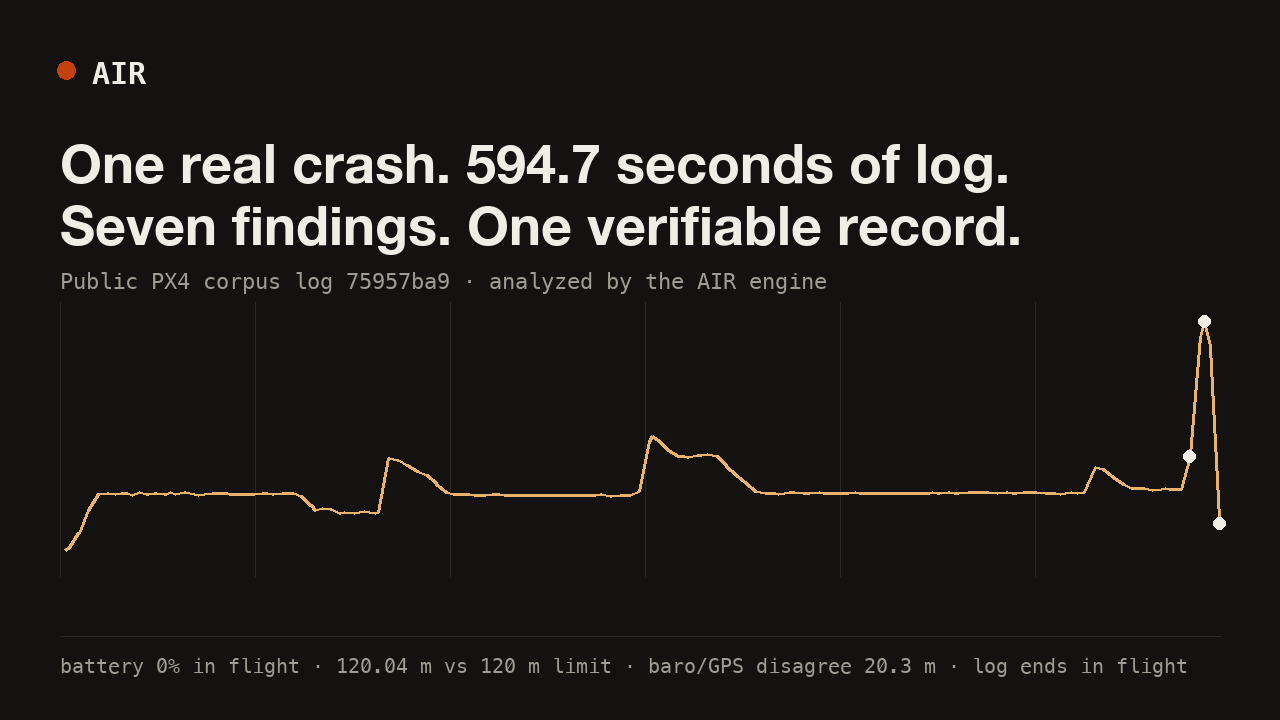
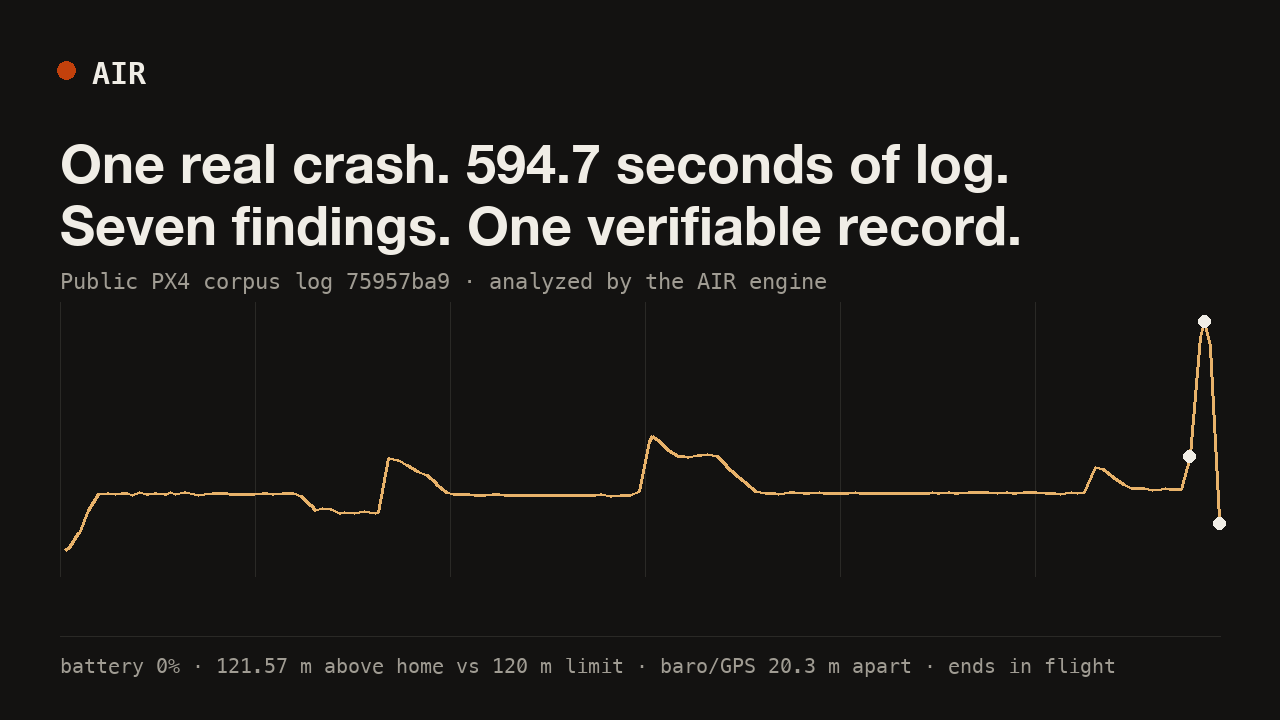
Update demo scripts, captions and site charts to current output
The demo script, video captions, chart annotations and poster quoted
120.04 m (EKF-origin height), a 59% flight-start sag and 12.6 m at log
end. They now quote what the engine reports: 121.57 m above home against
the 120 m rule with its 1 m tolerance, a 51% collapse within 10 s, and
14.2 m above home. Chart descriptions no longer call the three altitude
traces independent (they use different references). The demo's
limitations section is aligned with the verifier trust anchor and the
certification wording.

Changed region(s): [[0.1562, 0.9167, 0.9375, 0.9472]]

diff --git a/site/tools/render_charts.py b/site/tools/render_charts.py
@@ -65,10 +65,12 @@ def main() -> int:
         f'<svg viewBox="0 0 {W} {H}" role="img" aria-labelledby="altchart-t altchart-d" '
         f'class="chart chart-alt" preserveAspectRatio="xMidYMid meet">')
     p.append('<title id="altchart-t">Altitude by source over the 594-second flight</title>')
-    p.append('<desc id="altchart-d">Three independent altitude traces — barometer, GPS, and '
-             'EKF-fused — plotted against flight time. Near the end of the flight the barometer '
-             'and GPS traces diverge by 20.3 meters, a procedure altitude limit is exceeded at '
-             '120.04 meters, and all traces stop while the aircraft is still airborne.</desc>')
+    p.append('<desc id="altchart-d">Three altitude traces with different references — '
+             'barometer, GPS (above sea level), and EKF (above its local origin) — plotted '
+             'against flight time. Near the end of the flight the barometer and GPS traces '
+             'diverge by 20.3 meters, the procedure height limit is exceeded at 121.57 meters '
+             'above the launch point, and all traces stop while the aircraft is still '
+             'airborne.</desc>')
     p.append(f'<rect x="0" y="0" width="{W}" height="{H}" fill="{PANEL}"/>')
 
     # grid + axes
@@ -98,11 +100,11 @@ def main() -> int:
                  f'fill="none" stroke="{color}" stroke-width="1.8" stroke-linejoin="round"/>')
         # legend chips drawn separately in HTML; keep SVG clean
 
-    # ALT-1 peak marker on EKF (T+586.9, 120.04)
+    # ALT-1 peak marker on the EKF trace (T+586.9; EKF-origin 120.04 m = 121.57 m above home)
     mx, my = sx(586.94), sy(120.04)
     p.append(f'<circle cx="{mx:.1f}" cy="{my:.1f}" r="4.5" fill="{CRIT}"/>')
     p.append(f'<line x1="{mx:.1f}" y1="{my-8:.1f}" x2="{mx:.1f}" y2="{my-34:.1f}" stroke="{CRIT}" stroke-width="1"/>')
-    p.append(f'<text x="{mx-6:.1f}" y="{my-40:.1f}" text-anchor="end" class="anno anno-crit">120.04 m — ALT-1 limit is 120 m · FAIL</text>')
+    p.append(f'<text x="{mx-6:.1f}" y="{my-40:.1f}" text-anchor="end" class="anno anno-crit">121.57 m above home — ALT-1 limit is 120 m · FAIL</text>')
 
     # conflict annotation: double arrow between baro & GPS at T+580.5 (204.73 vs 164.01)
     ax = sx(580.48)
@@ -215,7 +217,7 @@ def main() -> int:
              f'stroke-width="1.6" stroke-linejoin="round"/>')
     for t, v, cls, label, anchor in (
             (579.24, None, "hm-bat", "battery 0%", "end"),
-            (586.94, 120.04, "hm-alt", "120.04 m", "end"),
+            (586.94, 120.04, "hm-alt", "121.6 m above home", "end"),
             (594.64, 12.64, "hm-end", "log ends in flight", "end")):
         yv = hy(v) if v is not None else hy(dict((round(pt[0], 2), pt[1]) for pt in ekf).get(579.24, 100))
         # nearest EKF value for battery marker

diff --git a/site/tools/gen_images.py b/site/tools/gen_images.py
@@ -61,7 +61,7 @@ def base_canvas(W, H, d):
     vmin = min(v for _, v in pts) - 6
     vmax = max(v for _, v in pts) + 10
     draw_trace(dr, pts, 60, H * 0.42, W - 120, H * 0.36, dur, vmin, vmax)
-    # markers: battery 0% (579.24), alt peak (586.94, 120.04), end (594.64, 12.64)
+    # markers on the EKF-origin trace: battery 0% (579.24), alt peak (586.94), end (594.64)
     for t, v in ((579.24, None), (586.94, 120.04), (594.64, 12.64)):
         if v is None:
             near = min(pts, key=lambda pv: abs(pv[0] - t))
@@ -104,7 +104,7 @@ def poster():
     dr.text((60, 268), "Public PX4 corpus log 75957ba9 · analyzed by the AIR engine",
             font=font(22, mono=True), fill=MUTED)
     dr.line([(60, H - 84), (W - 60, H - 84)], fill=GRIDC, width=1)
-    dr.text((60, H - 66), "battery 0% in flight · 120.04 m vs 120 m limit · baro/GPS disagree 20.3 m · log ends in flight",
+    dr.text((60, H - 66), "battery 0% · 121.57 m above home vs 120 m limit · baro/GPS 20.3 m apart · ends in flight",
             font=font(20, mono=True), fill=MUTED)
     img.save(os.path.join(OUT, "poster.png"), optimize=True)
 

diff --git a/DEMO.md b/DEMO.md
@@ -32,23 +32,23 @@ Click **"Run the sample crash instead"** — no upload needed. Everything runs l
 >
 > *(click "Run the sample crash instead" — processing takes under a second)*
 >
-> One upload, one record. Four critical findings, each with the evidence sample, the timestamp, and the threshold it tripped — and where that threshold comes from. The battery hit 0% in flight after sagging 59% below its starting voltage. The flight busted the 120-meter altitude rule in the ops manual — by four hundredths of a meter, and the record says exactly that: 120.04. And the log ends *in the air* at 12.6 meters — the classic signature of power loss.
+> One upload, one record. Five critical findings, each with the evidence sample, the timestamp, and the threshold it tripped — and where that threshold comes from. The battery hit 0% in flight, and in its last ten seconds the voltage collapsed by half. The flight broke the 120-meter height rule in the ops manual: 121.57 meters above the launch point, past the rule's one-meter measurement tolerance, and the record says which altitude reference it used. And the log ends *in the air* at about 14 meters above home — consistent with sudden power loss.
 >
 > Here's the part no log viewer does: AIR cross-checked the barometer against GPS altitude. They disagree by 20 meters right at the crash. The record doesn't hide that — it reports which sensors conflict, so nobody builds a conclusion on the wrong one.
 >
 > *(click "Verify record now")*
 >
-> And the whole record is tamper-evident: hash tree, signature, offline verifier. Change one byte of any finding and this verification fails. That's the product: from raw telemetry to a defensible, checkable incident record in seconds.
+> And the whole record is tamper-evident: hash tree, signature, offline verifier. Change one byte of any finding, or of the HTML page, and this verification fails; check it against the operator's published key fingerprint and a re-signed copy fails too. That's the product: from raw telemetry to a defensible, checkable incident record in seconds.
 
 ## 3-minute extended script
 
 1. **Setup (20 s).** "Drone programs generate incidents — crashes, flyaways, near-misses — and the record of what happened is usually a pilot's memory plus a log file nobody can read. Investigators, insurers, and safety managers need three answers: what happened, did we follow our own procedures, and can we prove the record wasn't massaged after the fact. AIR produces all three from the raw log."
 2. **Provenance (15 s).** Show the provenance card. "This is a public, real crash — log 75957ba9 from the PX4 corpus. The uploader's entire analysis was one sentence. Nothing in this demo is staged; you can download the same file and reproduce every number."
-3. **Run + summary (20 s).** Click the sample. Walk the chips: 4 critical, 3 warnings, procedures 4 pass / 2 fail. "Under a second of compute, deterministic rules only — no ML verdicts, every threshold cites its source."
+3. **Run + summary (20 s).** Click the sample. Walk the chips: 5 critical, 2 warnings, procedures 4 pass / 2 fail. "Under a second of compute, deterministic rules only — no ML verdicts, every threshold cites its source."
 4. **Findings discipline (45 s).** Open two findings and narrate the epistemics: "Each card separates **raw evidence** — the value, the timestamp, the exact telemetry channel — from the **deterministic calculation** — the threshold and its basis, here a ruleset ArduPilot shipped for years — from **interpretation**, which is worded as 'consistent with', never as a cause. The battery finding is measured fact. 'Possible power loss' is labeled inference. And where AIR can't know something, it says so —" show a NOT_EVALUABLE row or the coverage note. "Missing evidence is reported, never papered over. Upload a log that never flew, and AIR tells you that instead of inventing a crash."
-5. **Conformance (30 s).** Conformance table. "The operator's ops manual, as machine-checkable rules. Six rules; two failed, with the observed value and the moment it happened. 120.04 against a 120 limit — a marginal violation reported at full precision, because in an incident record precision *is* credibility."
-6. **Conflict (25 s).** Altitude-by-source chart + conflict finding. "Three independent altitude sources on one timeline. Barometer and GPS diverge 20 meters at the crash; the record quotes both and flags every altitude-dependent conclusion near that moment. Single-source tools can't tell you when their one source is lying."
-7. **Evidence layer (25 s).** Download the bundle, run the verifier (or click Verify). "Merkle tree over the record and the source-file digests, Ed25519 signature, optional trusted timestamp. The verifier is 200 lines of readable Python that runs offline — built to be audited by the other side's expert, not just ours."
+5. **Conformance (30 s).** Conformance table. "The operator's ops manual, as machine-checkable rules. Six rules; two failed, with the observed value and the moment it happened. 121.57 meters above home against a 120 limit, past the stated 1 m tolerance. A reading within the tolerance would be MARGINAL, not FAIL: the record never claims more precision than the sensors have."
+6. **Conflict (25 s).** Altitude-by-source chart + conflict finding. "Three altitude sources on one timeline, each with its own reference. Barometer and GPS, which are independent sensors, diverge 20 meters at the crash; the record quotes both and flags every altitude-dependent conclusion near that moment. Single-source tools can't tell you when their one source is lying."
+7. **Evidence layer (25 s).** Download the bundle, run the verifier (or click Verify). "Merkle tree over the record and the source-file digests, Ed25519 signature, optional trusted timestamp. The verifier is a single readable Python file that runs offline — built to be audited by the other side's expert, not just ours."
 8. **Close (10 s).** "Runs locally, one engine end to end, evaluated against a 100-log public sample with results published in the repo — including what it can't do yet. That honesty is the product."
 
 ## What AIR found that an ordinary log viewer leaves to a human
@@ -57,10 +57,10 @@ A log viewer (Flight Review, UAV Log Viewer, CSV export) *plots* this flight; a 
 
 | AIR output | The manual work it replaces |
 |---|---|
-| Log ends in flight at 12.6 m (INT-TRUNC, threshold cited) | Notice the log stops without a disarm; check final altitude; know that this pattern means power loss/impact |
-| Battery 0% + 59% voltage sag with timestamps | Read two channels, compute sag vs flight start, know sag thresholds |
+| Log ends in flight at 14.2 m above home (INT-TRUNC, threshold and reference cited) | Notice the log stops without a disarm; check final altitude; know that this pattern means power loss/impact |
+| Battery 0% + 51% voltage collapse within 10 s, with timestamps and current | Read voltage and current, separate load sag from normal discharge, know sag thresholds |
 | Baro-vs-GPS 20.3 m divergence at the crash moment, both values quoted | Overlay two altitude sources, offset-correct different references, spot the divergence window |
-| 120.04 m vs 120 m ops-manual limit, PASS/FAIL per rule with evidence sample | Open the ops manual, extract each limit, scrub the log for each extreme, write it up |
+| 121.57 m above home vs 120 m ops-manual limit (1 m tolerance), verdict per rule with evidence sample | Open the ops manual, extract each limit, scrub the log for each extreme, write it up |
 | Explicit "sources agree" statements and NOT_EVALUABLE gaps | Nobody writes down what they *checked and found fine* — which is exactly what an investigator or insurer needs |
 | Signed, offline-verifiable bundle | No manual equivalent exists |
 
@@ -75,10 +75,10 @@ A log viewer (Flight Review, UAV Log Viewer, CSV export) *plots* this flight; a 
 ## Limitations (say these out loud before anyone asks)
 
 1. **PX4 `.ulg` only today.** ArduPilot and DJI are unimplemented (DJI additionally requires a revocable vendor API key). The market-share majority of small drones is DJI — this demo does not cover them.
-2. **Evaluated on 100 public logs, not 436k.** Results: 99% ingestion, 0 false-positive ends-in-flight calls, determinism 10/10, tamper detection 5/5 — but recall of uploader-labeled "crashes" via the ends-in-flight signal is 12%: most crashes keep logging to the ground, and AIR does not yet detect ground-impact signatures. Full numbers and caveats: `eval/EVALUATION.md`.
-3. **"AGL" altitude is relative to the EKF origin**, not terrain-corrected; distance-from-home uses the EKF origin as home.
+2. **Evaluated on 100 public logs, not 436k, with the July 2026 engine** (not re-run since the October fixes). Results: 99% ingestion, 0 false-positive ends-in-flight calls, determinism 10/10, tamper detection 5/5 — but recall of uploader-labeled "crashes" via the ends-in-flight signal is 12%: most crashes keep logging to the ground, and AIR does not yet detect ground-impact signatures. Full numbers and caveats: `eval/EVALUATION.md`.
+3. **Altitude rules use height above the launch point**, not terrain-corrected AGL; without a logged home position they are NOT_EVALUABLE.
 4. **Conformance covers 6 quantitative rule types.** Real ops manuals contain weather minima, airspace, and crew rules AIR cannot yet express.
-5. **The cryptography proves integrity, not identity or truth.** It shows the record hasn't changed since signing and that the source files match their digests. It does not prove who signed (dev key on disk today; no key-distribution infrastructure), does not validate the TSA certificate chain in the bundled verifier, and does not make anything court-admissible or legally compliant — wording we deliberately never use.
+5. **The cryptography proves integrity, not identity or truth.** It shows the record hasn't changed since signing and that the source files match their digests. Given the operator's published fingerprint it shows which key signed, not who controls that key (key on disk today; no identity PKI). It validates the TSA certificate chain only when given a trusted CA (`--tsa-ca`). AIR's records are intended to support a qualified person's certification; AIR does not itself certify identity or admissibility, and we never call it court-admissible or legally compliant.
 6. **Single-source evidence in this demo** — one flight log plus procedures. The multi-source story (detection alerts, weather, Remote ID) is roadmap, not product.
 7. **Uploader labels in the corpus are noisy** — one "crash"-labeled fixture turned out to be a bench test that never armed (AIR abstained; that behavior is the feature).
 

diff --git a/site/DEMO_MEDIA.md b/site/DEMO_MEDIA.md
@@ -14,7 +14,7 @@ prefer compressed).
 | 1 | Site hero, trace draws in | "This is a real drone crash — a public flight log anyone can download. The owner's entire analysis was one sentence: 'my drone started to gain altitude sharply.'" |
 | 2 | Local demo: click "Run the sample crash instead" | "Drop that log into AIR. Under a second later, it's an incident record." |
 | 3 | Record page: chips + findings scroll | "Seven findings, each typed: measured evidence, the threshold it tripped, and where that threshold comes from. Battery hit zero percent — while it was still flying." |
-| 4 | Conformance table close-up | "AIR checked the flight against written procedures. Altitude limit 120 meters: the flight hit 120.04. That precision is the point — records get challenged." |
+| 4 | Conformance table close-up | "AIR checked the flight against written procedures. Height limit 120 meters above launch: the flight hit 121.57, past the one-meter measurement tolerance. Stating the tolerance is the point — records get challenged." |
 | 5 | Altitude chart, conflict annotation | "Two independent altitude sensors disagree by twenty meters at the crash. AIR doesn't pick a winner — it reports the conflict, so nobody builds a case on the wrong number." |
 | 6 | Click "Verify record now", PASS output | "And the whole record is sealed: hash tree, signature, offline verifier. Change one byte, verification fails." |
 | 7 | Site limitations section | "It's early: PX4 logs only, a 100-log public evaluation, every limitation published." |
